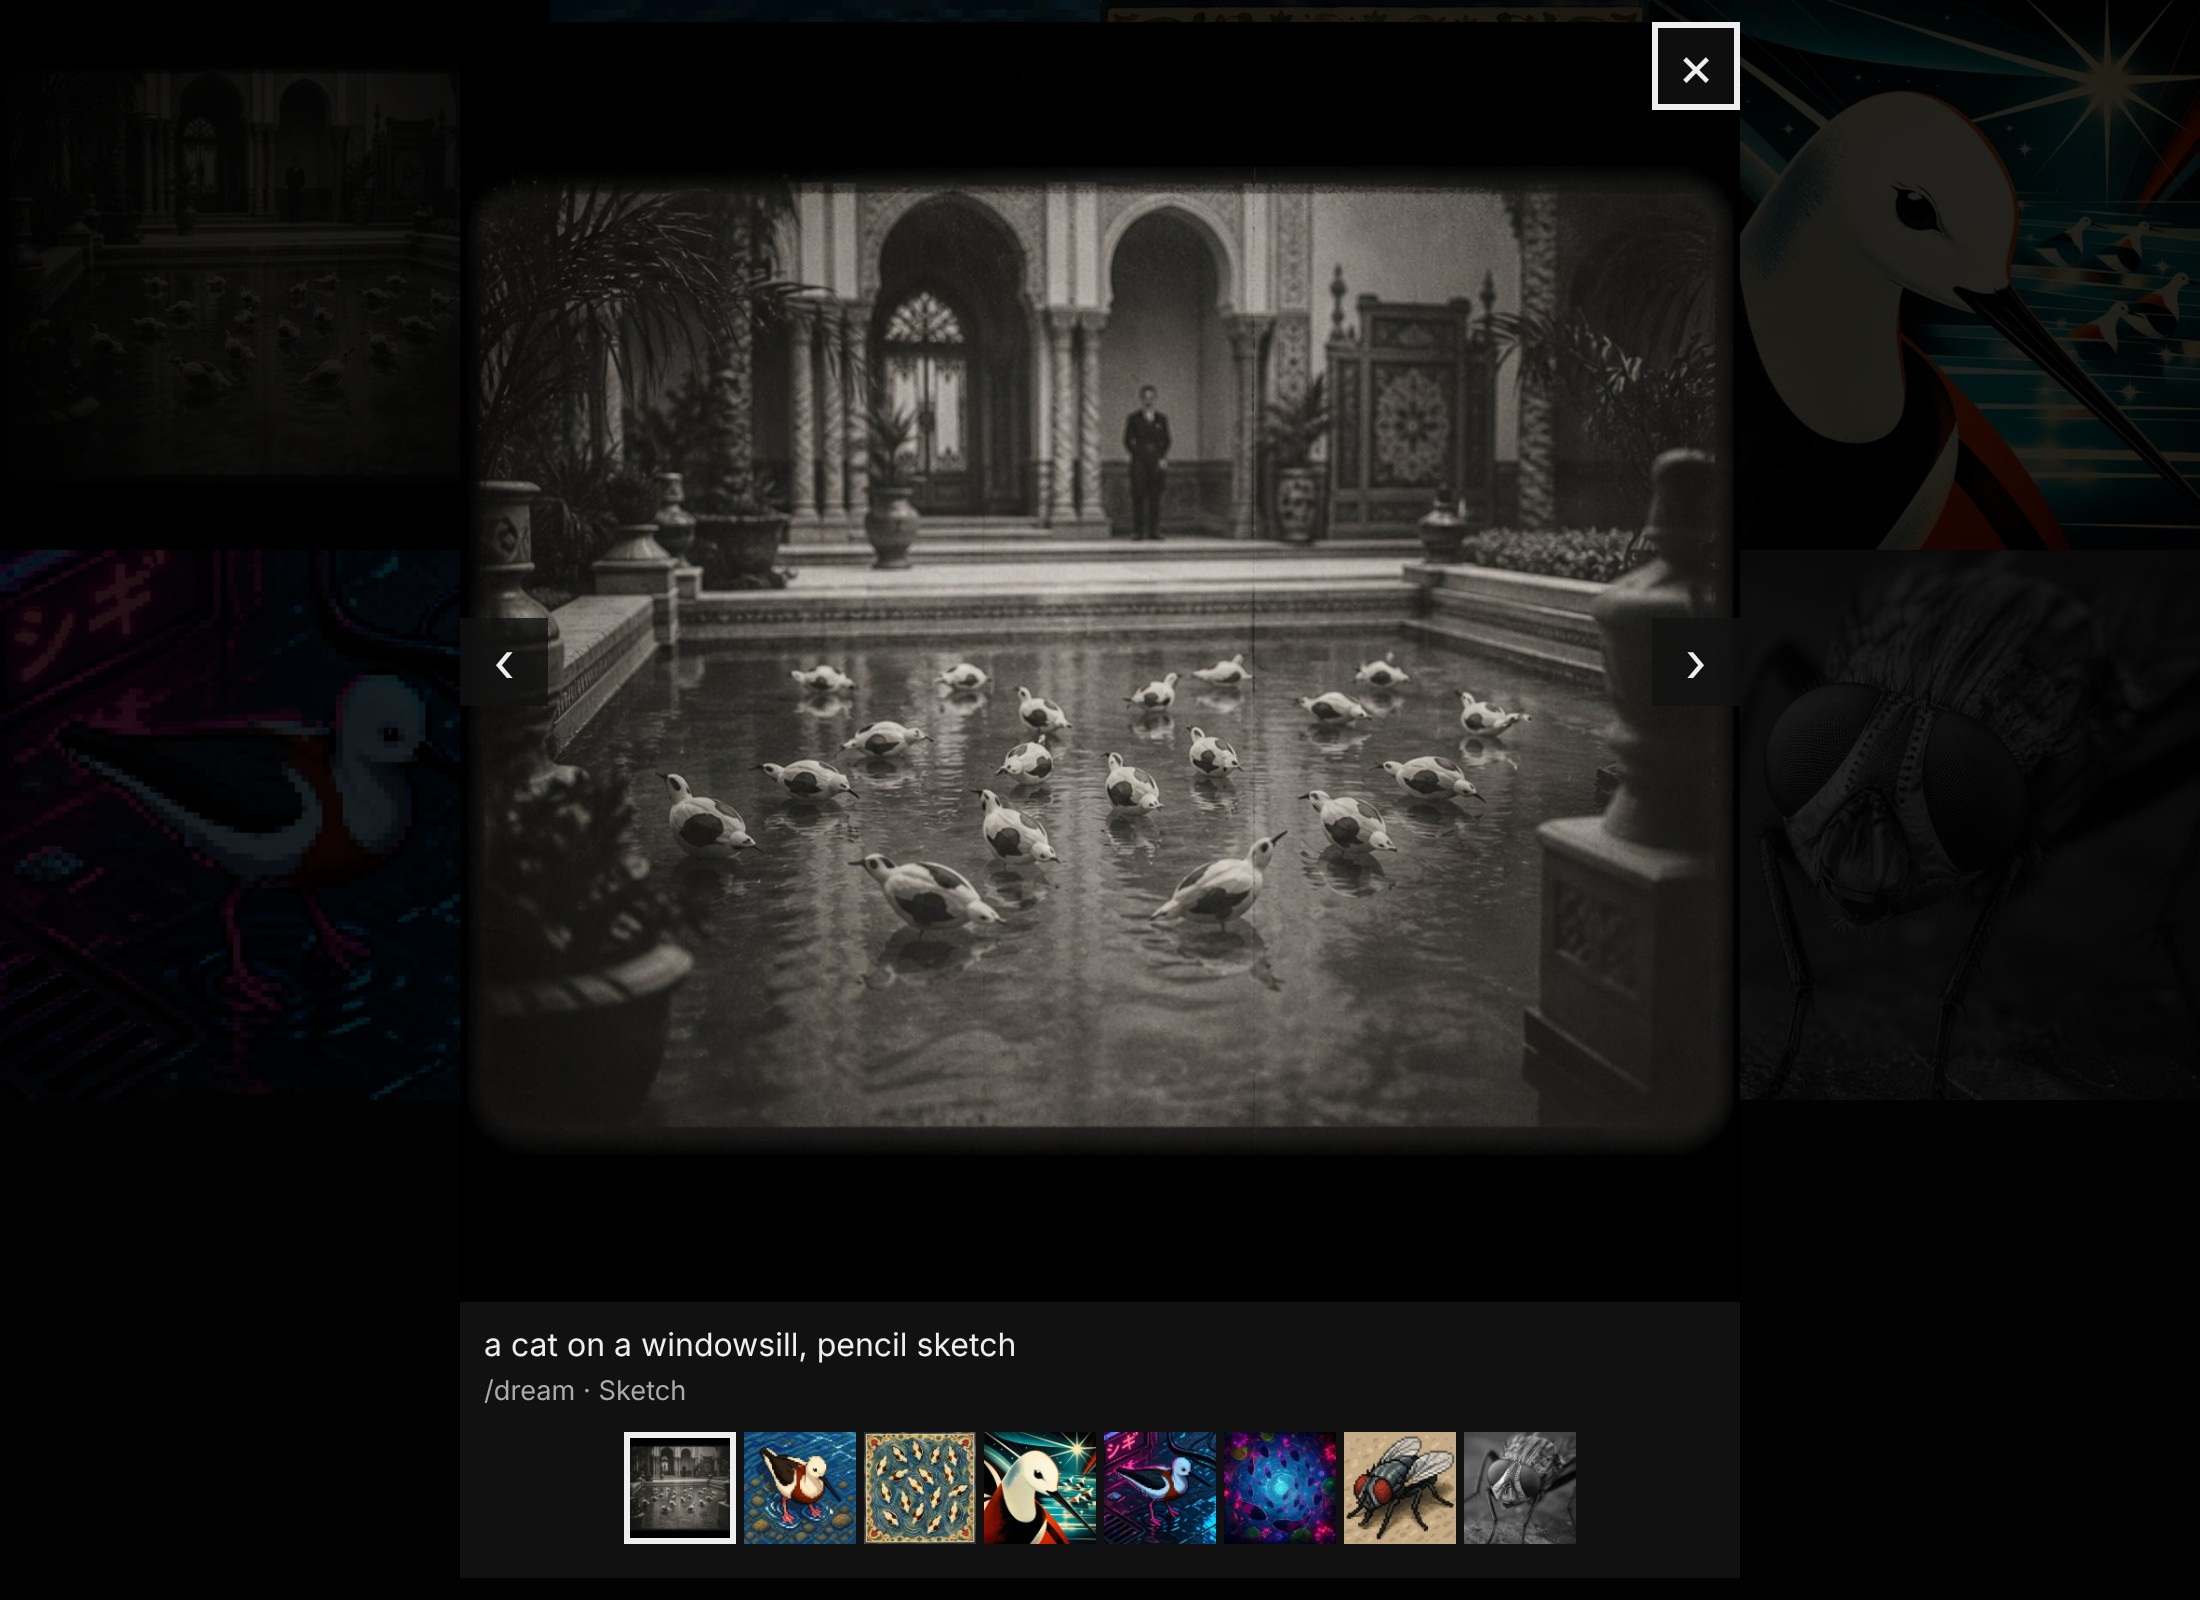
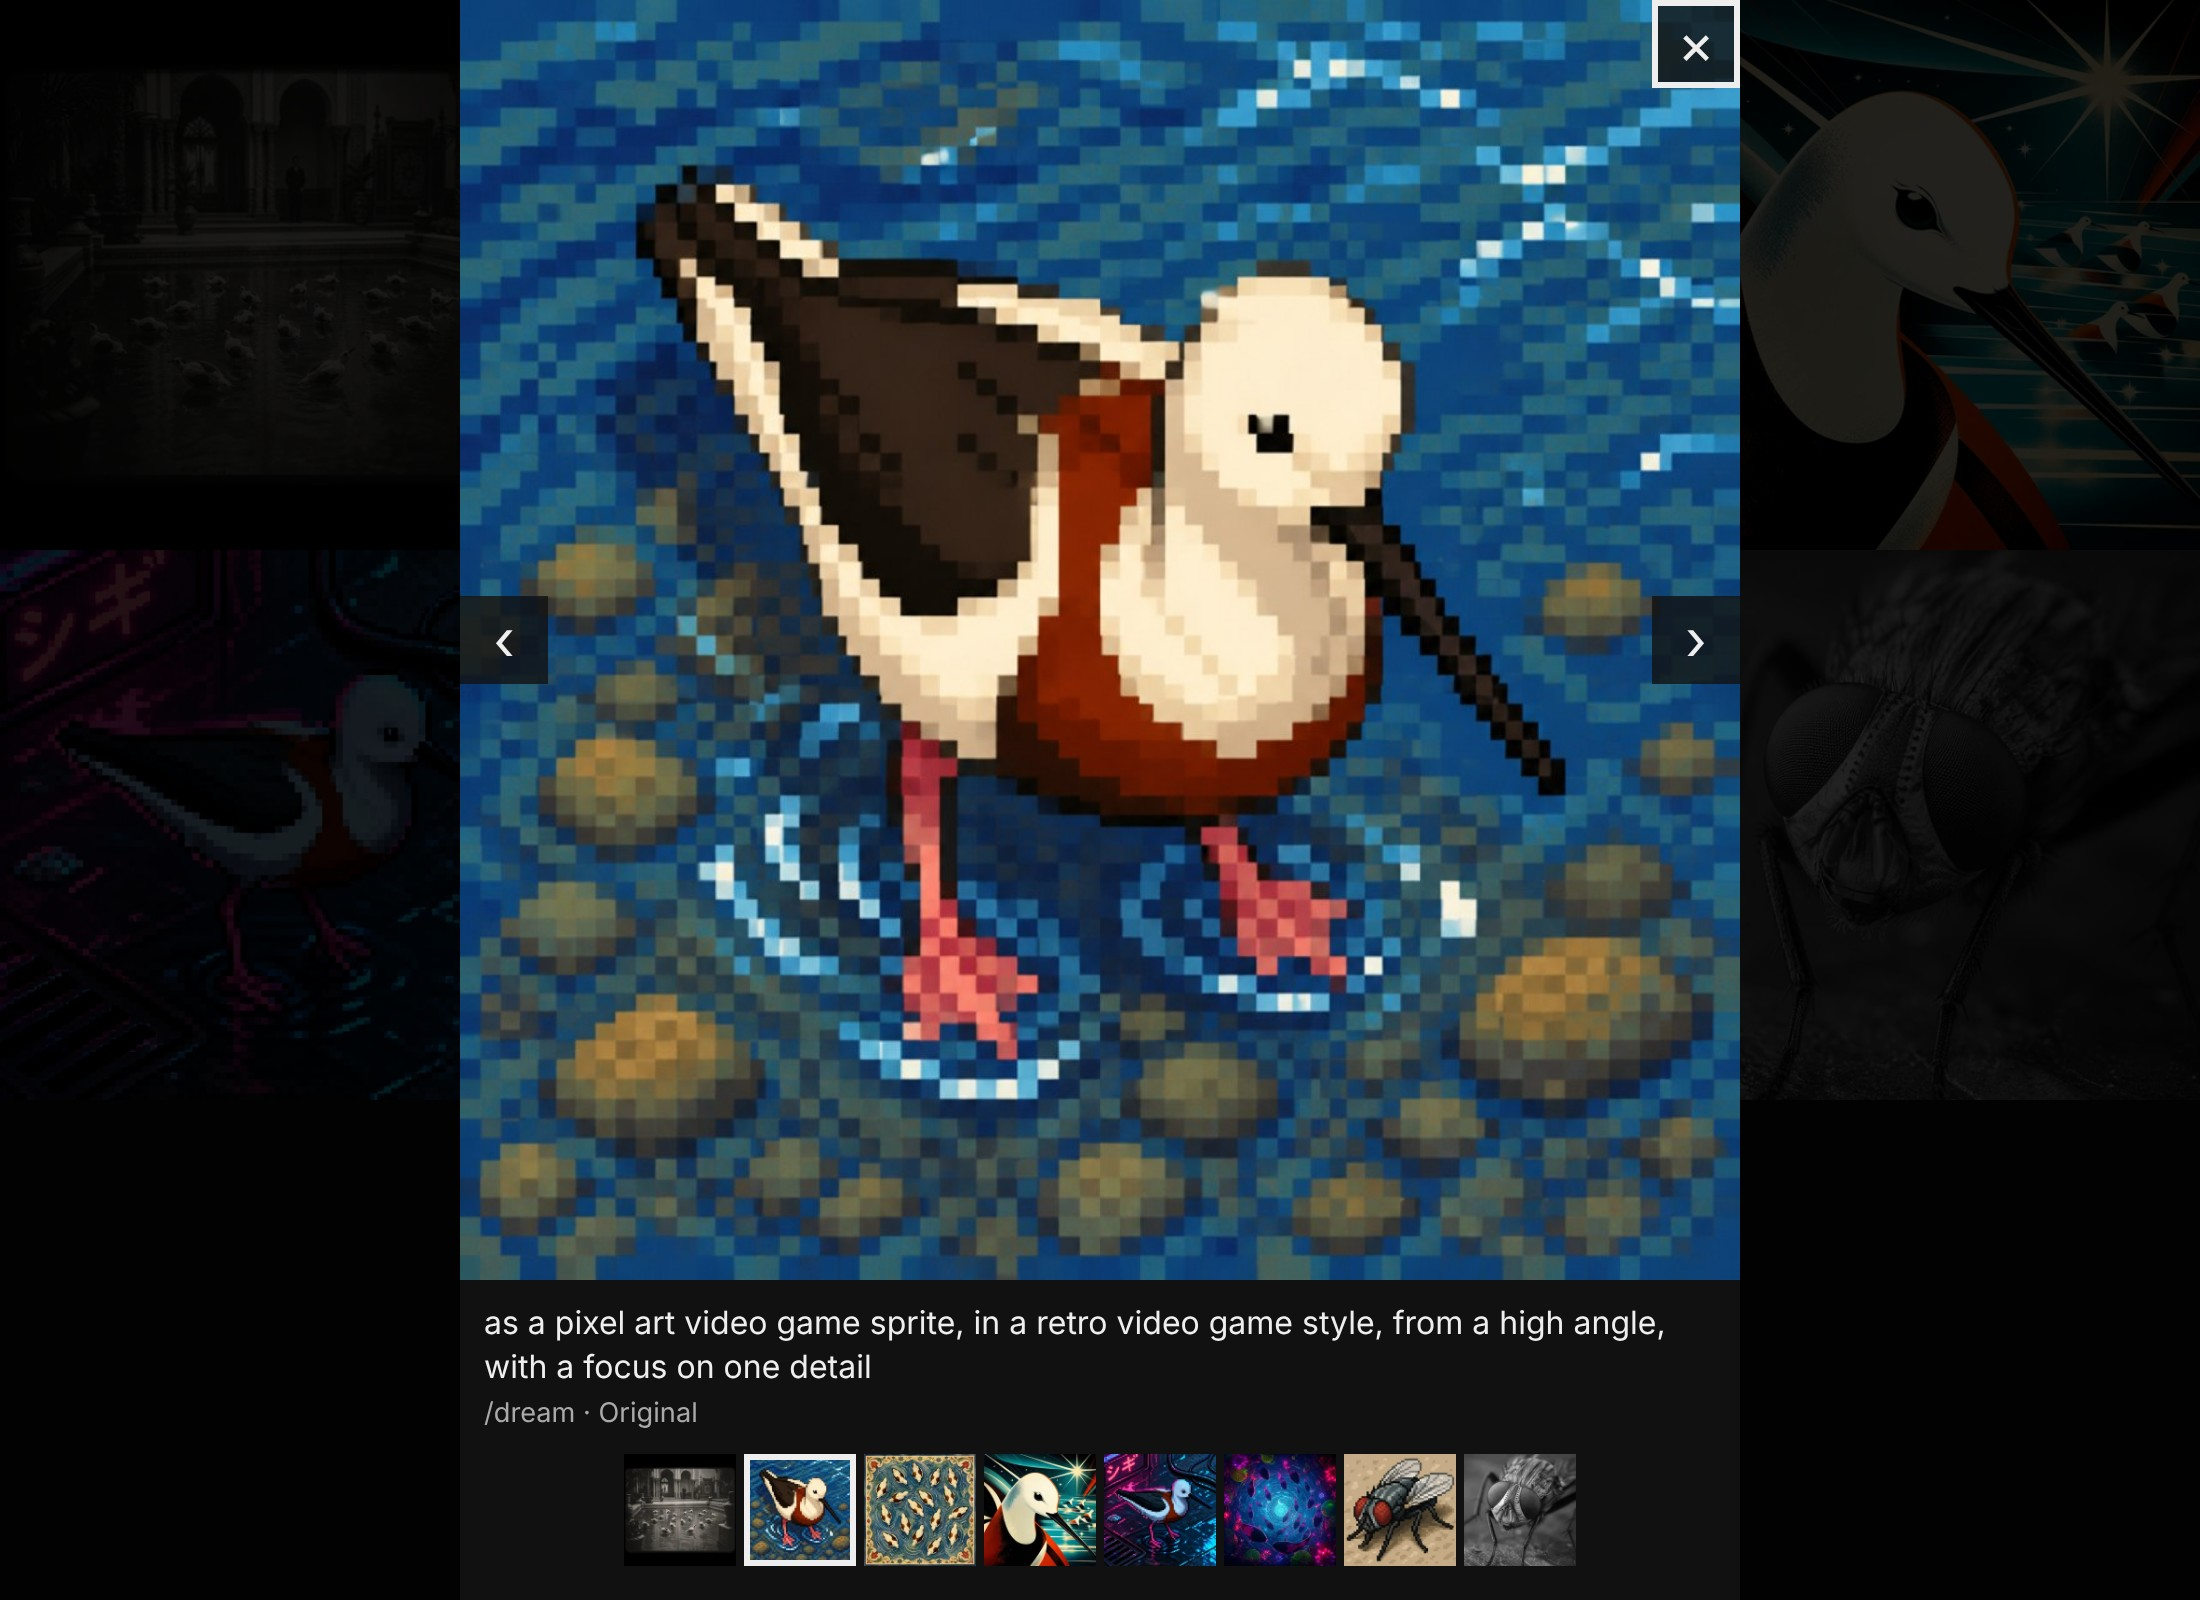
README viewer screenshot: the pixel stilt, with its real caption
Claude-Session: https://claude.ai/code/session_01RsqJnwc1KhZgxetzj61D45

diff --git a/e2e/screenshots.spec.js b/e2e/screenshots.spec.js
@@ -26,6 +26,10 @@ const PROFILES = [
 // The sample pictures in the order they are shown: the four birds in the top
 // row on a desktop, then the fifth bird, the fish and the two flies.
 const ORDER = [4, 6, 7, 8, 5, 3, 2, 1].map(n => `telegram-0${n}.jpg`)
+// The picture the viewer screenshot opens, with the caption it had in the chat. (The dev stack's
+// captions are made up and have nothing to do with the pictures.)
+const VIEWER = 'telegram-06.jpg'
+const VIEWER_CAPTION = 'as a pixel art video game sprite, in a retro video game style, from a high angle, with a focus on one detail'
 const sha = buf => crypto.createHash('sha256').update(buf).digest('hex')
 const samples = path.join(__dirname, '..', 'testdata', 'telegram')
 const fileOf = new Map(fs.readdirSync(samples).map(f => [sha(fs.readFileSync(path.join(samples, f))), f]))
@@ -39,6 +43,12 @@ async function distinctTiles(request) {
     if (byFile.size === fileOf.size) break
     const file = fileOf.get(sha(await (await request.get(`/img/${t.key}.jpg`, { headers: basic() })).body()))
     if (file && !byFile.has(file)) byFile.set(file, { ...t, styles: [t.styles.find(x => x.key === t.key)] })
+  }
+  const shown = byFile.get(VIEWER)
+  if (shown) {
+    shown.caption = shown.styles[0].caption = VIEWER_CAPTION
+    shown.label = shown.styles[0].label = 'Original' // the made-up style label would contradict the caption
+    shown.viewer = true
   }
   return { ...listing, tiles: ORDER.map(f => byFile.get(f)).filter(Boolean), next: null }
 }
@@ -69,10 +79,12 @@ for (const [name, profile, gridView, viewerView, scale] of PROFILES) {
 
       // The lightbox, with its strip of the other images.
       await page.setViewportSize(viewerView)
-      const key = (listing.tiles.find(t => t.caption) || listing.tiles[0]).key
+      const key = listing.tiles.find(t => t.viewer).key
+      await expect(page.locator(`.tile[data-key="${key}"] img`)).toHaveAttribute('alt', VIEWER_CAPTION)
       await page.locator(`.tile[data-key="${key}"] a`).evaluate(a => a.click())
       await expect(page.locator('dialog#lb')).toBeVisible()
       await expect.poll(() => page.locator('#full').evaluate(i => i.complete && i.naturalWidth)).toBe(1024)
+      await expect(page.locator('#cap')).toHaveText(VIEWER_CAPTION)
       // The strip's thumbnails load lazily: wait for the ones in view.
       await expect.poll(() => page.locator('#strip').evaluate(st => {
         const box = st.getBoundingClientRect()
